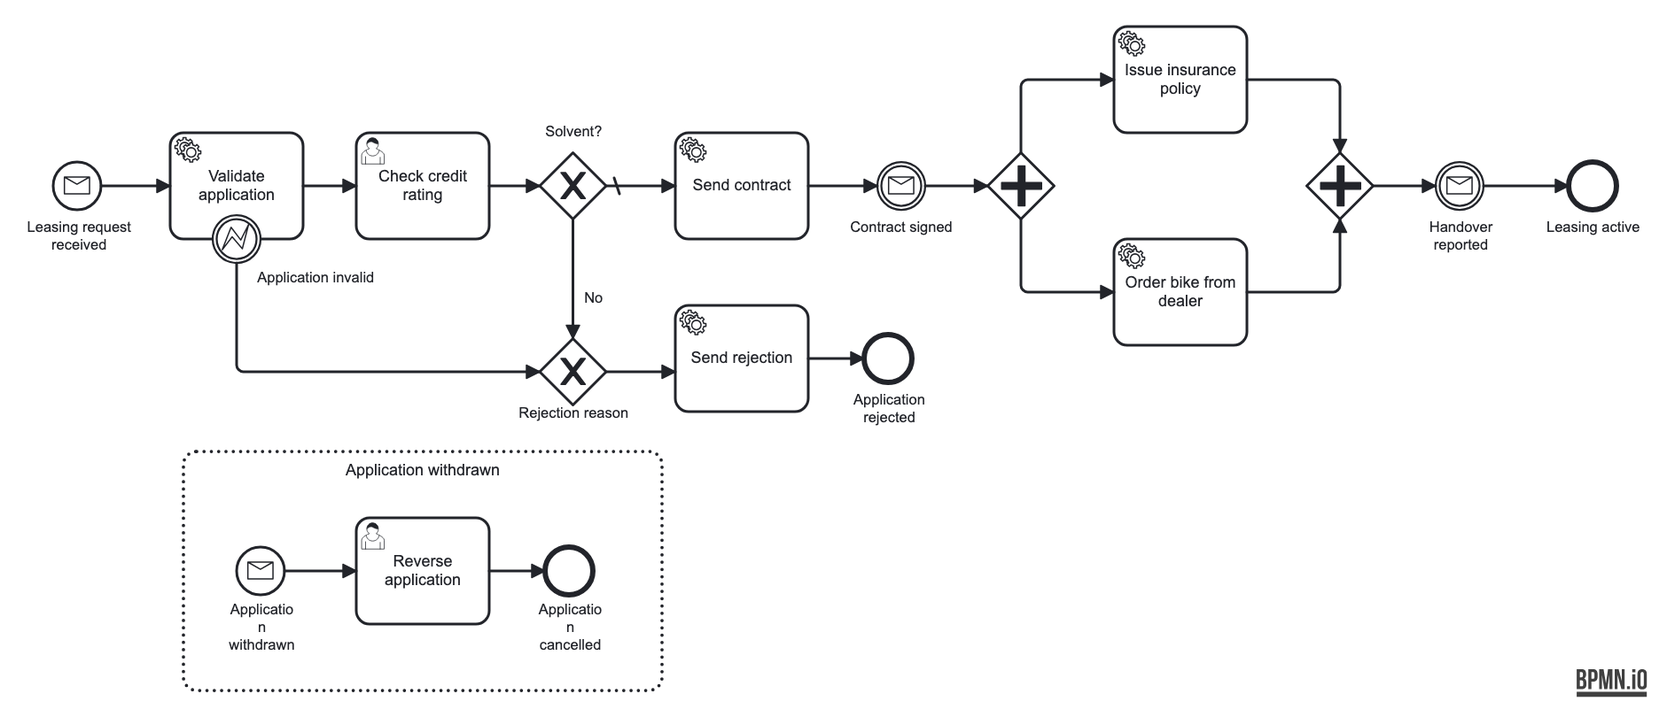
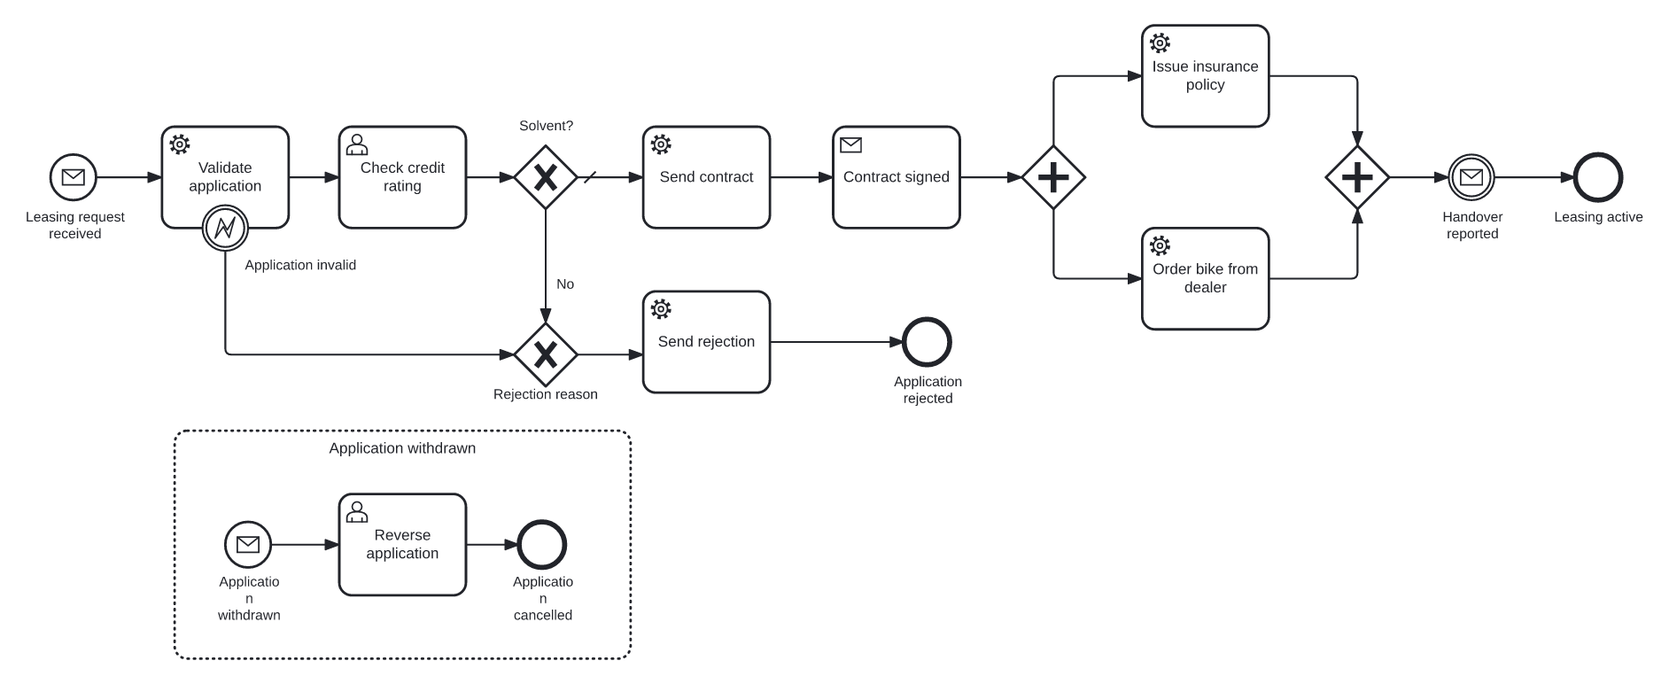
refactor(process): wait for the signature in a receive task

diff --git a/service/app/src/main/kotlin/io/miragon/blueprint/adapter/process/BikeLeasingProcessProcessApi.kt b/service/app/src/main/kotlin/io/miragon/blueprint/adapter/process/BikeLeasingProcessProcessApi.kt
@@ -43,12 +43,12 @@ object BikeLeasingProcessProcessApi {
       EndEventApplicationRejected,
       EndEventLeasingActive,
       EventApplicationInvalid,
-      EventContractSigned,
       EventHandoverReported,
       GatewayFork,
       GatewayIsSolvent,
       GatewayJoin,
       GatewayRejectionJoin,
+      ReceiveTaskContractSigned,
       ServiceTaskIssueInsurancePolicy,
       ServiceTaskOrderBike,
       ServiceTaskSendContract,
@@ -115,28 +115,6 @@ object BikeLeasingProcessProcessApi {
           get() = SequenceFlows.single(
             flowId = ElementId("flow_applicationInvalid"),
             target = GatewayRejectionJoin,
-          )
-      }
-    }
-
-    object EventContractSigned : AbstractFlowNode(
-      id = ElementId(EventContractSigned.ELEMENT_ID),
-      elementType = BpmnElementType.INTERMEDIATE_CATCH_EVENT,
-      name = "Contract signed",
-    ), HasSuccessors<EventContractSigned.Next>, Event, HasMessage {
-      override val eventType: BpmnEventType = BpmnEventType.MESSAGE
-
-      const val ELEMENT_ID: String = "event_contractSigned"
-
-      override val message: MessageName = Messages.MIRAVELO_CONTRACT_SIGNED
-
-      override val next: Next = Next
-
-      object Next {
-        val gatewayFork: SequenceFlows<GatewayFork>
-          get() = SequenceFlows.single(
-            flowId = ElementId("flow_signedToFork"),
-            target = GatewayFork,
           )
       }
     }
@@ -248,6 +226,26 @@ object BikeLeasingProcessProcessApi {
       }
     }
 
+    object ReceiveTaskContractSigned : AbstractFlowNode(
+      id = ElementId(ReceiveTaskContractSigned.ELEMENT_ID),
+      elementType = BpmnElementType.RECEIVE_TASK,
+      name = "Contract signed",
+    ), HasSuccessors<ReceiveTaskContractSigned.Next>, HasMessage {
+      const val ELEMENT_ID: String = "receiveTask_contractSigned"
+
+      override val message: MessageName = Messages.MIRAVELO_CONTRACT_SIGNED
+
+      override val next: Next = Next
+
+      object Next {
+        val gatewayFork: SequenceFlows<GatewayFork>
+          get() = SequenceFlows.single(
+            flowId = ElementId("flow_signedToFork"),
+            target = GatewayFork,
+          )
+      }
+    }
+
     object ServiceTaskIssueInsurancePolicy : AbstractFlowNode(
       id = ElementId(ServiceTaskIssueInsurancePolicy.ELEMENT_ID),
       elementType = BpmnElementType.SERVICE_TASK,
@@ -300,10 +298,10 @@ object BikeLeasingProcessProcessApi {
       override val next: Next = Next
 
       object Next {
-        val eventContractSigned: SequenceFlows<EventContractSigned>
+        val receiveTaskContractSigned: SequenceFlows<ReceiveTaskContractSigned>
           get() = SequenceFlows.single(
             flowId = ElementId("flow_contractSentToSigned"),
-            target = EventContractSigned,
+            target = ReceiveTaskContractSigned,
           )
       }
     }

diff --git a/service/app/src/test/kotlin/io/miragon/blueprint/adapter/process/BikeLeasingProcessTest.kt b/service/app/src/test/kotlin/io/miragon/blueprint/adapter/process/BikeLeasingProcessTest.kt
@@ -75,7 +75,7 @@ class BikeLeasingProcessTest {
         processEngine.executeJobFor(FlowNodes.UserTaskCheckCreditRating)
 
         process.correlateContractSigned(id)
-        processEngine.executeJobFor(FlowNodes.EventContractSigned)
+        processEngine.executeJobFor(FlowNodes.ReceiveTaskContractSigned)
         processEngine.executeJobFor(FlowNodes.ServiceTaskOrderBike)
 
         process.correlateHandoverReported(id)
@@ -185,7 +185,7 @@ class BikeLeasingProcessTest {
         val instance = runtimeService.findProcessInstance(id)
         process.completeCreditCheck(id, solvent = true)
         processEngine.executeJobFor(FlowNodes.UserTaskCheckCreditRating)
-        assertThat(instance).isWaitingAt(FlowNodes.EventContractSigned.ELEMENT_ID)
+        assertThat(instance).isWaitingAt(FlowNodes.ReceiveTaskContractSigned.ELEMENT_ID)
 
         process.correlateApplicationWithdrawn(id)
         processEngine.executeJobFor(FlowNodes.StartEventApplicationWithdrawn)
@@ -210,7 +210,7 @@ class BikeLeasingProcessTest {
         process.completeCreditCheck(id, solvent = true)
         processEngine.executeJobFor(FlowNodes.UserTaskCheckCreditRating)
         process.correlateContractSigned(id)
-        processEngine.executeJobFor(FlowNodes.EventContractSigned)
+        processEngine.executeJobFor(FlowNodes.ReceiveTaskContractSigned)
         processEngine.executeJobFor(FlowNodes.ServiceTaskOrderBike)
         assertThat(instance).isWaitingAt(FlowNodes.EventHandoverReported.ELEMENT_ID)
 
@@ -244,7 +244,7 @@ class BikeLeasingProcessTest {
     private fun pathUntilContractSigned() =
         pathUntilCreditChecked()
             .then { it.serviceTaskSendContract }
-            .then { it.eventContractSigned }
+            .then { it.receiveTaskContractSigned }
 
     private fun pathOfTheReversal() =
         ProcessPath.from(FlowNodes.StartEventApplicationWithdrawn)

diff --git a/service/app/src/test/kotlin/io/miragon/blueprint/adapter/process/DealerOutageIncidentTest.kt b/service/app/src/test/kotlin/io/miragon/blueprint/adapter/process/DealerOutageIncidentTest.kt
@@ -74,7 +74,7 @@ class DealerOutageIncidentTest {
         process.completeCreditCheck(application.id, solvent = true)
         processEngine.executeJobFor(FlowNodes.UserTaskCheckCreditRating)
         process.correlateContractSigned(application.id)
-        processEngine.executeJobFor(FlowNodes.EventContractSigned)
+        processEngine.executeJobFor(FlowNodes.ReceiveTaskContractSigned)
 
         val failures = processEngine.failJobUntilRetriesAreExhausted(FlowNodes.ServiceTaskOrderBike)
 
@@ -100,7 +100,7 @@ class DealerOutageIncidentTest {
                     .then { it.userTaskCheckCreditRating }
                     .then { it.gatewayIsSolvent }
                     .then { it.serviceTaskSendContract }
-                    .then { it.eventContractSigned }
+                    .then { it.receiveTaskContractSigned }
                     .then { it.gatewayFork },
             )
             .hasNotPassed(FlowNodes.ServiceTaskOrderBike.ELEMENT_ID)

diff --git a/service/app/src/test/kotlin/io/miragon/blueprint/adapter/process/StatusMatchesWaitStateTest.kt b/service/app/src/test/kotlin/io/miragon/blueprint/adapter/process/StatusMatchesWaitStateTest.kt
@@ -64,10 +64,10 @@ class StatusMatchesWaitStateTest {
         processEngine.executeJobFor(FlowNodes.UserTaskCheckCreditRating)
 
         Assertions.assertThat(statusOf(id)).isEqualTo(LeasingStatus.CONTRACT_SENT)
-        assertThat(instance).isWaitingAt(FlowNodes.EventContractSigned.ELEMENT_ID)
+        assertThat(instance).isWaitingAt(FlowNodes.ReceiveTaskContractSigned.ELEMENT_ID)
 
         signContract.signContract(id)
-        processEngine.executeJobFor(FlowNodes.EventContractSigned)
+        processEngine.executeJobFor(FlowNodes.ReceiveTaskContractSigned)
         Assertions.assertThat(statusOf(id)).isEqualTo(LeasingStatus.CONTRACT_SIGNED)
         processEngine.executeJobFor(FlowNodes.ServiceTaskOrderBike)
 

diff --git a/docs/architecture/sourcing-decisions.md b/docs/architecture/sourcing-decisions.md
@@ -53,16 +53,16 @@ Map position = evolution value on the map and its stage.
 | Component | Map position (evolution stage) | Decision | Rationale | Where in the process (BPMN element ids) | Where in the code | Issue / ADR |
 |---|---|---|---|---|---|---|
 | Bike leasing | 0.55, product (Assumption) | – (the user need) | What the customer wants: a bike, not an application form. | the whole process `bikeLeasingProcess` | – | [use case][usecase] |
-| Customer frontend | 0.26, custom-built | **Make** | The customer's view of the case: apply, follow the status, sign, withdraw. Built from known parts (React, Vite, TanStack) and a client generated from our contract, so not genesis. | `startEvent_leasingRequestReceived`, `event_contractSigned`, `startEvent_applicationWithdrawn` (and `event_handoverReported`, which the dealer would report) | [frontend/][fe]: pages `application-list`, `submit-application`, `application-detail` | [ADR-0009][adr9] |
+| Customer frontend | 0.26, custom-built | **Make** | The customer's view of the case: apply, follow the status, sign, withdraw. Built from known parts (React, Vite, TanStack) and a client generated from our contract, so not genesis. | `startEvent_leasingRequestReceived`, `receiveTask_contractSigned`, `startEvent_applicationWithdrawn` (and `event_handoverReported`, which the dealer would report) | [frontend/][fe]: pages `application-list`, `submit-application`, `application-detail` | [ADR-0009][adr9] |
 | Back-office task UI | 0.36, custom-built | **Make**: own inbox in the frontend (decided) | Task data goes through the domain and its validation, and the inbox shows business data (customer, income, bike) instead of process variables. Rejected: adapting the CIB seven Tasklist with a Camunda Form, which writes variables past the domain. Trade-off: no assignment, claiming or permissions yet. | `userTask_checkCreditRating`, `userTask_reverseApplication` | page `task-inbox`; `GET /api/tasks` (`ListOpenTasksController`), `CompleteCreditCheckController`, `CompleteReversalController` | [ADR-0010][adr10], decides [#11][i11] |
 | Process monitoring | 0.66, product | **Buy**: CIB seven Cockpit | Ships with the engine. Operations sees running cases and incidents without any code of ours. | incidents on `serviceTask_orderBike` (dealer outage); every running case | `cibseven-bpm-spring-boot-starter-webapp-4`, served at `/camunda` | [ADR-0007][adr7] (technical metrics) |
 | Leasing application | 0.30, custom-built | **Make** | MiraVelo's own domain and use cases; nobody sells them. Built from known patterns (hexagon, Spring Boot), so not genesis. | every service task (via `#{...Delegate}`); the message events and both user tasks (via REST) | `domain/`, `application/`, `adapter/inbound/` under [io/miragon/blueprint][code] | [ADR-0002][adr2], [ADR-0003][adr3] |
 | Insurance policy | 0.77, commodity (Assumption) | **Partner** (the insurer) (Assumption); no decision issue yet | Insuring a leased bike is a standard product that an insurer sells; we never build it. How to connect the insurer has no issue of its own yet. | `serviceTask_issueInsurancePolicy` | `InsurancePort`, `LoggingInsuranceAdapter` (simulated) | [#2][i2] (delivered) |
 | Customer notification | 0.86, commodity (Assumption) | **Open** (#9) | The delivery sets nobody apart (the content may). Transactional messaging is a utility. | `serviceTask_sendContract`, `serviceTask_sendRejection` | `NotificationPort`, `LoggingNotificationAdapter` (simulated) | [#9][i9] |
-| Contract & e-signature | 0.68, product (Assumption) | **Open** (#8) | Does not set us apart, but no signature means no lease. E-signature is regulated and sold as a product or service. | `serviceTask_sendContract`, `event_contractSigned` | `ContractPort`, `LoggingContractAdapter` (simulated) | [#8][i8] |
+| Contract & e-signature | 0.68, product (Assumption) | **Open** (#8) | Does not set us apart, but no signature means no lease. E-signature is regulated and sold as a product or service. | `serviceTask_sendContract`, `receiveTask_contractSigned` | `ContractPort`, `LoggingContractAdapter` (simulated) | [#8][i8] |
 | Dealer integration | 0.38, custom-built (Assumption) | **Partner** (the dealer); how to connect is **open** (#10) | The dealer is an independent business: we never build its system. Dealer interfaces are probably uneven (APIs, portals). | `serviceTask_orderBike`, `event_handoverReported` | `BikeDealerPort`, `BikeDealerAdapter` (simulated); `ReportHandoverController` | [#10][i10] |
 | Credit check | 0.30, custom-built | **Make**; manual today, automation is [#19][i19] | MiraVelo's own risk policy. Today a person decides it in the inbox, with no rule behind the decision. #19 brings back the original decision table `checkCreditRating` (age 18 to 99, monthly net income at least 1,500), which waits frozen in `original/`. | `userTask_checkCreditRating`, read by `gateway_isSolvent` | `CompleteCreditCheckService`; [checkCreditRating.dmn][dmn] (not deployed) | [#19][i19] |
-| Process engine | 0.64, product | **Buy**: CIB seven (open source, embedded) | Running BPMN with messages, an event subprocess, async jobs and retries is a mature product. Building it would set us apart in nothing. | the waiting and the technical behaviour: `event_contractSigned`, `event_handoverReported`, `subProcess_applicationWithdrawn`, retries on `serviceTask_orderBike` | `cibseven-bpm-spring-boot-starter-rest-4` and `-webapp-4` ([versions][libs]); port `LeasingProcess`, adapter `LeasingProcessAdapter` | [ADR-0011][adr11], [ADR-0005][adr5] |
+| Process engine | 0.64, product | **Buy**: CIB seven (open source, embedded) | Running BPMN with messages, an event subprocess, async jobs and retries is a mature product. Building it would set us apart in nothing. | the waiting and the technical behaviour: `receiveTask_contractSigned`, `event_handoverReported`, `subProcess_applicationWithdrawn`, retries on `serviceTask_orderBike` | `cibseven-bpm-spring-boot-starter-rest-4` and `-webapp-4` ([versions][libs]); port `LeasingProcess`, adapter `LeasingProcessAdapter` | [ADR-0011][adr11], [ADR-0005][adr5] |
 | Leasing process model | 0.27, custom-built | **Make** | How MiraVelo runs a lease. It grows with every feature. BPMN itself is a standard, and the model follows a known template, so not genesis. | all of `bikeLeasingProcess` ([bike-leasing.bpmn][bpmn]) | generated `adapter/process/BikeLeasingProcessProcessApi.kt`; packaged by [build.gradle.kts][gradle] | [ADR-0008][adr8]; source model and deviations in [executable-process.md][exec] |
 | UI framework | 0.76, commodity | **Buy**: React, Vite and their ecosystem (open source) | The standard way to build a web frontend. We use it as it is. | none; it hosts the pages that start and complete the steps | [frontend/package.json][fe-package] | [ADR-0009][adr9] |
 | Application framework | 0.82, commodity | **Buy**: Spring Boot 4 (open source) | The standard way to run a JVM service. We use it as it is. | none; it hosts the delegate beans the service tasks call | [versions][libs], [build.gradle.kts][gradle] | [ADR-0005][adr5] |
@@ -84,7 +84,7 @@ designIQ pins it on the elements of `bike-leasing.bpmn`.
 
 | Map | Issue | Wardley component | Question | Anchored BPMN element ids | Today | Related |
 |---|---|---|---|---|---|---|
-| 1 | [#8][i8] | Contract & e-signature | Contract issuing and e-signature: make, buy or adapt? | `serviceTask_sendContract`, `event_contractSigned` | simulated: `LoggingContractAdapter`; the customer signs with a button in the frontend | #1, #3, #9, #18 |
+| 1 | [#8][i8] | Contract & e-signature | Contract issuing and e-signature: make, buy or adapt? | `serviceTask_sendContract`, `receiveTask_contractSigned` | simulated: `LoggingContractAdapter`; the customer signs with a button in the frontend | #1, #3, #9, #18 |
 | 2 | [#9][i9] | Customer notification | Which channel, and how is it sourced? | `serviceTask_sendContract`, `serviceTask_sendRejection` | simulated: `LoggingNotificationAdapter` | #1, #3, #8 |
 | 3 | [#10][i10] | Dealer integration | How do we connect the dealer? | `serviceTask_orderBike`, `event_handoverReported` | simulated: `BikeDealerAdapter`; the handover is reported with a button in the frontend | #4, #7, #20 |
 

diff --git a/docs/glossary.md b/docs/glossary.md
@@ -32,7 +32,7 @@ Where things live:
 | Merging gateway | unnamed, or named after what it collects | Rejection reason |
 | Parallel gateway | unnamed | `gateway_fork`, `gateway_join` |
 | Timer | the duration | 14 days (planned #18, #21) |
-| BPMN element id | `<type>_<camelCase>`, never changed once released | `serviceTask_orderBike` · `event_contractSigned` · `gateway_isSolvent` |
+| BPMN element id | `<type>_<camelCase>`, never changed once released | `serviceTask_orderBike` · `receiveTask_contractSigned` · `gateway_isSolvent` |
 | Sequence flow id | `flow_<camelCase>` describing the step, as bpmnlint requires | `flow_requestToValidation` · `flow_notSolvent` |
 | Message | id `Message_<PascalCase>`, name `miravelo.<camelCase>` | `Message_ContractSigned` / `miravelo.contractSigned` |
 | Decision (DMN) | file name = decision id, so designIQ links the rule task | `checkCreditRating.dmn` → `checkCreditRating` |
@@ -83,7 +83,7 @@ Do not mix up:
 | Term | Definition | In the models | In the code | Status |
 |---|---|---|---|---|
 | MiraVelo | The fictional bike brand that leases bikes to customers and runs this process. | process `bikeLeasingProcess` "MiraVelo Bike Leasing"; message names `miravelo.*` | `Messages.MIRAVELO_*` | core |
-| Customer | The person who applies for a lease, signs the contract, may withdraw and receives the bike. | "Leasing request received" (`startEvent_leasingRequestReceived`); "Contract signed" (`event_contractSigned`); "Application withdrawn" (`startEvent_applicationWithdrawn`) | `CustomerName`, `Email`, `LeasingApplication.customerName`; frontend `/antraege/neu`, `/antraege/{id}` | core |
+| Customer | The person who applies for a lease, signs the contract, may withdraw and receives the bike. | "Leasing request received" (`startEvent_leasingRequestReceived`); "Contract signed" (`receiveTask_contractSigned`); "Application withdrawn" (`startEvent_applicationWithdrawn`) | `CustomerName`, `Email`, `LeasingApplication.customerName`; frontend `/antraege/neu`, `/antraege/{id}` | core |
 | Back office | MiraVelo staff who check the credit rating and reverse withdrawn applications. They work in the inbox of the frontend. | `userTask_checkCreditRating`, `userTask_reverseApplication` | `GET /api/tasks`, `POST /api/bike-leasing/{id}/credit-check`, `POST /api/bike-leasing/{id}/reversal`; frontend `/aufgaben` | core |
 | Operations | Whoever watches running cases and resolves incidents. | incidents on `serviceTask_orderBike` | – (works in the CIB seven Cockpit) | core |
 | Dealer | The bike dealer: offers the catalogue, takes the order, reports the handover. Simulated in the core (decision #10). | "Order bike from dealer" (`serviceTask_orderBike`); "Handover reported" (`event_handoverReported`) | `BikeDealerPort` → `BikeDealerAdapter`; `POST /api/bike-leasing/{id}/report-handover` | core |
@@ -110,7 +110,7 @@ Do not mix up:
 |---|---|---|---|---|
 | Leasing contract | The contract between MiraVelo and the customer. The contract system issues it when it is sent; its reference is stored on the application. Simulated in the core (decision #8). | "Send contract" (`serviceTask_sendContract`) | `ContractPort.issueContract` → `ContractId` (`CONTRACT-<uuid>`); `LoggingContractAdapter` | core |
 | Send contract | Issue the contract and ask the customer to sign it ("Please review and sign your leasing contract"). | `serviceTask_sendContract` (`#{sendContractDelegate}`) | `SendContractDelegate`, `SendContractUseCase`, `LeasingApplication.sendContract` | core |
-| Contract signed | The customer has signed, so policy and order can start. The process waits without a time limit. Signing when no signature is awaited is refused (409). | `event_contractSigned`; `Message_ContractSigned` / `miravelo.contractSigned` | `POST /api/bike-leasing/{id}/sign-contract`, `SignContractUseCase`, `LeasingApplication.signContract`; frontend feature `sign-contract` | core |
+| Contract signed | The customer has signed, so policy and order can start. The process waits without a time limit. Signing when no signature is awaited is refused (409). | `receiveTask_contractSigned`; `Message_ContractSigned` / `miravelo.contractSigned` | `POST /api/bike-leasing/{id}/sign-contract`, `SignContractUseCase`, `LeasingApplication.signContract`; frontend feature `sign-contract` | core |
 | Customer notification | A message to the customer, sent by "Send contract" and "Send rejection". The channel is simulated (decision #9). | `serviceTask_sendContract`, `serviceTask_sendRejection` | `NotificationPort.send` → `LoggingNotificationAdapter` | core |
 | Signature deadline | 14 days to sign after the contract was sent; without a signature the application is rejected. | map: event-based gateway `gateway_awaitSignature`, timer "14 days" (`event_signatureDeadline`, P14D), `flow_deadlineToRejection` | – | planned #18 |
 | Signature reminder | One reminder if the contract is still unsigned after 7 days; the deadline (#18) stays as it is. | map and original: timer "7 days" (`event_signatureReminder`, P7D) → `serviceTask_sendReminderMail` → `endEvent_prospectReminded` | – | planned #1 |
@@ -158,7 +158,7 @@ in the engine; the services set it when the process reaches the step.
 |---|---|---|---|---|
 | RECEIVED | Submitted. Stays so through the validation and the credit check. | set before `startEvent_leasingRequestReceived` | `LeasingStatus.RECEIVED` (`LeasingApplication.receive`) | core |
 | CONTRACT_SENT | The contract is out; the customer's signature is awaited. | `serviceTask_sendContract` | `LeasingStatus.CONTRACT_SENT` (`sendContract`) | core |
-| CONTRACT_SIGNED | The customer signed; the policy is issued and the bike ordered. | `event_contractSigned` | `LeasingStatus.CONTRACT_SIGNED` (`signContract`) | core |
+| CONTRACT_SIGNED | The customer signed; the policy is issued and the bike ordered. | `receiveTask_contractSigned` | `LeasingStatus.CONTRACT_SIGNED` (`signContract`) | core |
 | ORDERED | The dealer accepted the bike order; the handover is awaited. | `serviceTask_orderBike` | `LeasingStatus.ORDERED` (`documentOrder`) | core |
 | ACTIVE | Final: the lease is live. | `event_handoverReported` → `endEvent_leasingActive` | `LeasingStatus.ACTIVE` (`activate`) | core |
 | REJECTED | Final: invalid, or not solvent. | `serviceTask_sendRejection` → `endEvent_applicationRejected` | `LeasingStatus.REJECTED` (`reject`) | core |

diff --git a/docs/use-cases/bike-leasing/process/executable-process.md b/docs/use-cases/bike-leasing/process/executable-process.md
@@ -10,7 +10,7 @@ The executable model is a copy of the simplified event-subprocess variant of the
 that Miragon maintains (the source model): 20 flow nodes, two user tasks (`Check credit rating`,
 `Reverse application`), an interrupting event sub-process for the withdrawal, and no DMN, timer,
 compensation or called process. The flow-node ids of the source model are kept, except the error
-boundary. The copy here differs only where the engine or this repo's gates require it, and every
+boundary and "Contract signed". The copy here differs only where the engine or this repo's gates require it, and every
 difference is listed in "Deviations from the source model"; add a row when you add one.
 
 The original model of this repo is not the source model. It is frozen in `../original/` as the
@@ -66,7 +66,7 @@ shows that an under-age applicant is rejected, not stuck in an incident.
 | userTask_checkCreditRating | user task | Check credit rating | completed by `POST /api/bike-leasing/{id}/credit-check` (`{ "solvent": … }`) | after | output `solvent`; inbox task type `CREDIT_CHECK`; no form |
 | gateway_isSolvent | exclusive gateway | Solvent? | `${!solvent}` → "No" (`flow_notSolvent`) | – | default `flow_solvent` → Send contract |
 | serviceTask_sendContract | service task | Send contract | delegate `#{sendContractDelegate}` | – | issues the contract (ContractPort), asks the customer to sign; status CONTRACT_SENT |
-| event_contractSigned | message catch event | Contract signed | message `miravelo.contractSigned` (`POST /api/bike-leasing/{id}/sign-contract`) | after | no time limit ([#18]); status CONTRACT_SIGNED |
+| receiveTask_contractSigned | receive task | Contract signed | message `miravelo.contractSigned` (`POST /api/bike-leasing/{id}/sign-contract`) | after | no time limit ([#18]); status CONTRACT_SIGNED; a task, so the timers of [#1] and [#18] can attach as boundary events |
 | gateway_fork | parallel gateway (split) | (unnamed) | | – | insurance and order in parallel |
 | serviceTask_issueInsurancePolicy | service task | Issue insurance policy | delegate `#{issueInsurancePolicyDelegate}` | – | InsurancePort; stores policyId |
 | serviceTask_orderBike | service task | Order bike from dealer | delegate `#{orderBikeDelegate}` | before | retries `R3/PT10S`; stores orderId; status ORDERED; `BIKE-FAIL` → incident |
@@ -99,6 +99,7 @@ the engine.
 | Order bike from dealer | external task, `camunda:type="external"`, topic `orderBike`; asyncAfter | delegate `#{orderBikeDelegate}`; asyncBefore, no asyncAfter; `failedJobRetryTimeCycle` `R3/PT10S` | the engine stays embedded and every service task follows the same pattern; the retry cycle drives the incident demo (`BIKE-FAIL`) |
 | Send contract, Issue insurance policy | asyncAfter | no asyncAfter | CONTRACT_SENT commits together with the wait at Contract signed; the policy is issued inline before the join, so the order job sets ORDERED and reaches Handover reported in one transaction. The frontend never offers "sign" or "report handover" before the process waits for it (`StatusMatchesWaitStateTest`) |
 | Error boundary on Validate application | `boundary_applicationInvalid` | `event_applicationInvalid` | `@miragon/rules/element-id-naming` (bpmnlint) |
+| Contract signed | message catch event `event_contractSigned` | receive task `receiveTask_contractSigned`, same message | BPMN attaches boundary events only to activities, and the reminder of [#1] and the deadline of [#18] are timers on this wait; the id follows `@miragon/rules/element-id-naming` |
 | Sequence flow ids | generated (`Flow_0cq39pq`, `E01`, …) | descriptive `flow_*` (list above) | the same bpmnlint rule; readable ids in tests and anchors |
 | History time to live | `180` | `P180D` | the same 180 days, as an ISO 8601 duration |
 | Rejection merge | `gateway_rejectionJoin` unnamed | named "Rejection reason" | the merge rule of the glossary; the name the issues use |
@@ -133,20 +134,20 @@ anchor block, or the todo loses its place on the canvas.
 
 | Issue | Anchored elements (the `element:` lines of the issue body) |
 |---|---|
-| [#18] Signature deadline | serviceTask_sendContract, event_contractSigned, gateway_rejectionJoin |
-| [#1] Signature reminder | serviceTask_sendContract, event_contractSigned |
+| [#18] Signature deadline | receiveTask_contractSigned, gateway_rejectionJoin |
+| [#1] Signature reminder | receiveTask_contractSigned |
 | [#19] Credit check by DMN | userTask_checkCreditRating, gateway_isSolvent |
 | [#20] Alternative bike | serviceTask_orderBike |
 | [#21] Withdrawal period | event_handoverReported, endEvent_leasingActive |
 | [#3] Automatic reversal | subProcess_applicationWithdrawn, userTask_reverseApplication, serviceTask_sendContract, serviceTask_issueInsurancePolicy |
 | [#4] Bike order cancellation | serviceTask_orderBike |
 | [#7] Live dealer availability | serviceTask_orderBike |
-| [#8] Contract & e-signature | serviceTask_sendContract, event_contractSigned |
+| [#8] Contract & e-signature | serviceTask_sendContract, receiveTask_contractSigned |
 | [#9] Customer notification | serviceTask_sendContract, serviceTask_sendRejection |
 | [#10] Dealer integration | serviceTask_orderBike, event_handoverReported |
 
-Busiest elements: serviceTask_sendContract (#1, #3, #8, #9, #18), serviceTask_orderBike (#4, #7,
-#10, #20), event_contractSigned (#1, #8, #18).
+Busiest elements: serviceTask_sendContract (#3, #8, #9), serviceTask_orderBike (#4, #7, #10,
+#20), receiveTask_contractSigned (#1, #8, #18).
 
 [#2], [#5], [#6] and [#11] are delivered or decided by the rebase and close with it; their anchor
 blocks still name the elements of the previous core.

diff --git a/docs/use-cases/bike-leasing/feature-map/feature-map.md b/docs/use-cases/bike-leasing/feature-map/feature-map.md
@@ -6,6 +6,7 @@ process context.
 
 - Model: [bike-leasing-feature-map.bpmn](bike-leasing-feature-map.bpmn) (t.BPM workshop mode, not executable)
 - The core alone: [bike-leasing-tbpm.bpmn](../tbpm/bike-leasing-tbpm.bpmn). It has the same steps, names and ids.
+  One exception, see the notes on the ids: "Contract signed".
 - What runs: [bike-leasing.bpmn](../process/bike-leasing.bpmn), the executable model
 - Where the features come from: the issues, and the original via
   [scope-comparison.md](../original/scope-comparison.md) (capabilities C1 to C19)
@@ -22,8 +23,8 @@ process context.
   - #18, after "Send contract": the signature wait races a 14-day timer; the "14 days" path joins
     "Rejection reason".
   - #1, above "Send contract": a reminder after 7 days. The timer on "Send contract" is workshop
-    shorthand (an automated task ends at once); #1 names the two real options, and a note sticky
-    says so.
+    shorthand (an automated task ends at once); in the executable model it sits on the receive task
+    "Contract signed", and a note sticky says so.
   - #20, on the order branch: "Bike available?" → "Clarify alternative with customer" → re-order,
     or reverse and end with "Contract cancelled" (a terminate end, so the insurance branch does not
     keep waiting).
@@ -63,8 +64,8 @@ The anchors are the designIQ todo anchors in the executable model
 | Core | — | Insure and order in parallel (delivered [#2]) | `gateway_fork`, `serviceTask_issueInsurancePolicy`, `serviceTask_orderBike`, `gateway_join` | — | C7, C8, C18 | — |
 | Core | — | Hand over and activate | `event_handoverReported`, `endEvent_leasingActive` | — | C16, C17 | — |
 | Core | — | Withdraw, reverse by hand (inbox: delivered [#5], decided [#11]) | `subProcess_applicationWithdrawn`, `startEvent_applicationWithdrawn`, `userTask_reverseApplication`, `endEvent_applicationCancelled` | — | C12 | — |
-| 1 | [#18] | Signature deadline (14 days) | `gateway_awaitSignature` (event-based), `event_signatureDeadline` (14 days), `flow_deadlineToRejection` | `serviceTask_sendContract`, `event_contractSigned`, `gateway_rejectionJoin` | C6 | core; #8 for the open question |
-| 1 | [#1] | Signature reminder (7 days) | `event_signatureReminder` (7 days), `serviceTask_sendReminderMail`, `endEvent_prospectReminded` | `serviceTask_sendContract`, `event_contractSigned` | C5 | #18 |
+| 1 | [#18] | Signature deadline (14 days) | `gateway_awaitSignature` (event-based), `event_signatureDeadline` (14 days), `flow_deadlineToRejection` | `receiveTask_contractSigned`, `gateway_rejectionJoin` | C6 | core; #8 for the open question |
+| 1 | [#1] | Signature reminder (7 days) | `event_signatureReminder` (7 days), `serviceTask_sendReminderMail`, `endEvent_prospectReminded` | `receiveTask_contractSigned` | C5 | core |
 | 2 | [#19] | Credit check by DMN | note on `userTask_checkCreditRating` (it becomes the business rule task `businessRuleTask_checkCreditRating`) | `userTask_checkCreditRating`, `gateway_isSolvent` | C2 | core |
 | 2 | [#20] | Alternative bike when the dealer cannot deliver | `gateway_bikeSourceJoin`, `gateway_bikeAvailable`, `userTask_clarifyAlternative`, `gateway_alternativeFound`, `event_triggerReversal`, `serviceTask_confirmContractCancellation`, `endEvent_contractCancelled` (terminate) | `serviceTask_orderBike` | C9, C11 | #3 (its compensation handlers); shares the availability check with #7 |
 | 3 | [#21] | Withdrawal period before activation | `event_withdrawalPeriodElapsed` (14 days) | `event_handoverReported`, `endEvent_leasingActive` | C17 | core |
@@ -76,6 +77,9 @@ Notes on the ids:
 
 - Core ids are the executable ids; `tbpm_gateway_applicationValid` comes from the t.BPM model and
   stands for the error boundary `event_applicationInvalid`.
+- `event_contractSigned` on the map and in the t.BPM model is the business event "Contract signed".
+  The executable model waits for the same message in the receive task `receiveTask_contractSigned`,
+  because the timers of #18 and #1 attach to it as boundary events.
 - Feature ids come from the issues and the original. `gateway_bikeAvailable` is the gateway variant
   #20 names (option 2); #20 still chooses between it and the error boundary `event_bikeUnavailable`.
 - Ids that exist only on the map start with `fmap_`. The #3 sub-process and its start and end
@@ -94,7 +98,7 @@ Notes on the ids:
 
 | Decision | Issue | Sticky on | Anchored elements in the executable model |
 |---|---|---|---|
-| Contract & e-signature: make, buy or adapt? | [#8] | Send contract | `serviceTask_sendContract`, `event_contractSigned` |
+| Contract & e-signature: make, buy or adapt? | [#8] | Send contract | `serviceTask_sendContract`, `receiveTask_contractSigned` |
 | Customer notification channel? | [#9] | Send rejection | `serviceTask_sendContract`, `serviceTask_sendRejection` |
 | Dealer integration? | [#10] | Handover reported | `serviceTask_orderBike`, `event_handoverReported` |
 

diff --git a/docs/use-cases/bike-leasing/original/scope-comparison.md b/docs/use-cases/bike-leasing/original/scope-comparison.md
@@ -65,7 +65,7 @@ C1 to C19 are the capabilities of the original, derived from its models, code an
 | **C1** Leasing request intake | startEvent_leasingRequestReceived | kept | startEvent_leasingRequestReceived; start variables applicationId, bikeId, bikeModel (age and income stay in the database); new: serviceTask_validateApplication and event_applicationInvalid |
 | **C2** Credit rating check via DMN | businessRuleTask_checkCreditRating, gateway_isSolvent | simplified | userTask_checkCreditRating (the back office decides in the inbox), gateway_isSolvent; the DMN is frozen here → [#19] |
 | **C3** Rejection of non-solvent applicants | gateway_rejectionJoin, serviceTask_sendRejection, endEvent_applicationRejected | kept | same ids; also reached by an invalid application (flow_applicationInvalid) |
-| **C4** Contract conclusion: issue, send and sign the leasing contract | subProcess_concludeContract with startEvent_customerEligible, serviceTask_sendContract, gateway_awaitSignature, event_contractSigned, endEvent_contractValid | simplified | serviceTask_sendContract → event_contractSigned (no sub-process, no event-based gateway); sourcing → [#8] |
+| **C4** Contract conclusion: issue, send and sign the leasing contract | subProcess_concludeContract with startEvent_customerEligible, serviceTask_sendContract, gateway_awaitSignature, event_contractSigned, endEvent_contractValid | simplified | serviceTask_sendContract → receiveTask_contractSigned (no sub-process, no event-based gateway); sourcing → [#8] |
 | **C5** Signature reminder after 7 days | event_signatureReminder, serviceTask_sendReminderMail, endEvent_prospectReminded | removed | [#1] (needs [#18]) |
 | **C6** Signature deadline (14 days) escalation to rejection | event_signatureDeadline, endEvent_notSigned, event_contractNotSigned (escalation contractNotSigned) | removed | [#18]; the core waits for the signature without a time limit |
 | **C7** Insurance policy issuance (parallel to bike order) | gateway_fork, serviceTask_issueInsurancePolicy, gateway_join, event_compensateInsurance, serviceTask_cancelPolicy | simplified | gateway_fork, serviceTask_issueInsurancePolicy, gateway_join (delivered [#2]); cancelling the policy by compensation → [#3] |

diff --git a/docs/architecture/c4-system-context.md b/docs/architecture/c4-system-context.md
@@ -60,7 +60,7 @@ brackets are the executable ones.
 
 | Element | What it is | Origin in the process | Source in the repo |
 |---|---|---|---|
-| Customer | The person applying for a lease. Submits the application, signs the contract, may withdraw, receives the messages. | Leasing request received (`startEvent_leasingRequestReceived`), Contract signed (`event_contractSigned`), Application withdrawn (`startEvent_applicationWithdrawn`) | frontend pages [submit-application][fe-submit], [application-detail][fe-detail]; [SubmitLeasingRequestController][submit], [SignContractController][sign], [WithdrawApplicationController][withdraw] |
+| Customer | The person applying for a lease. Submits the application, signs the contract, may withdraw, receives the messages. | Leasing request received (`startEvent_leasingRequestReceived`), Contract signed (`receiveTask_contractSigned`), Application withdrawn (`startEvent_applicationWithdrawn`) | frontend pages [submit-application][fe-submit], [application-detail][fe-detail]; [SubmitLeasingRequestController][submit], [SignContractController][sign], [WithdrawApplicationController][withdraw] |
 | Back office | MiraVelo staff who decide the credit check and reverse a withdrawn application. | Check credit rating (`userTask_checkCreditRating`), Reverse application (`userTask_reverseApplication`) | frontend page [task-inbox][fe-inbox]; [ListOpenTasksController][tasks], [CompleteCreditCheckController][credit], [CompleteReversalController][reversal] |
 | Operations | Whoever watches running cases and incidents and retries failed jobs. | No step of its own. A dealer outage on Order bike from dealer (`serviceTask_orderBike`) retries three times (`R3/PT10S`), then raises an incident. | [application.yaml][yaml] (webapps), [DealerOutageIncidentTest][incident] |
 | Bike-leasing system | The system in scope: the frontend for customer and back office, and the service that runs the process and keeps the leasing applications. | The whole process `bikeLeasingProcess` | [bike-leasing.bpmn][bpmn], [service/app/src/main/kotlin][src], [frontend/][fe] |

diff --git a/.claude/agents/review-vertical-slice.md b/.claude/agents/review-vertical-slice.md
@@ -45,7 +45,7 @@ Backend paths are relative to `service/app/src/main/kotlin/io/miragon/blueprint/
 ## How to work
 
 - Search by the feature's nouns/verbs (`SignContract`, `signContract`, `sign-contract`,
-  `event_contractSigned`). Read only what you need to confirm a hop.
+  `receiveTask_contractSigned`). Read only what you need to confirm a hop.
 - Per hop state **present / missing / inconsistent** with path and symbol; for an inconsistency, say
   what doesn't line up.
 - Read-only `git`/`grep`/`ls` only.
